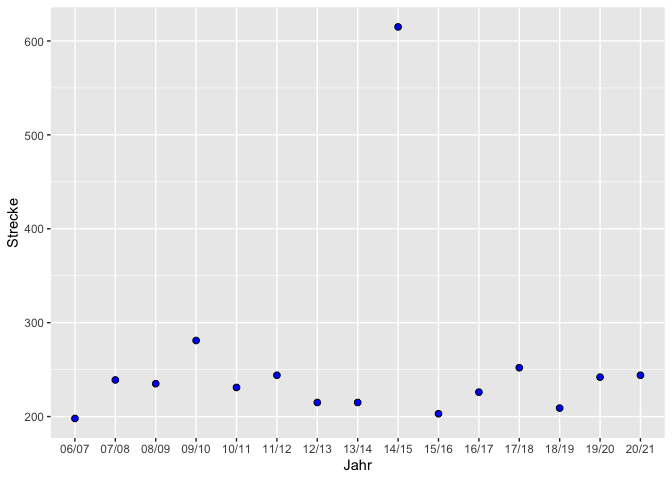
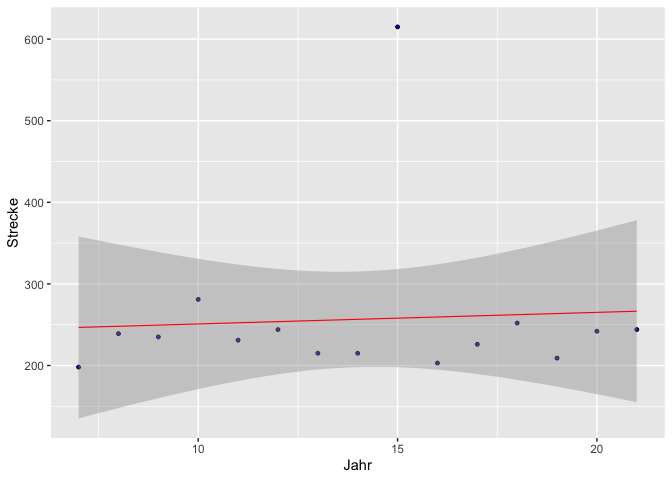
Aenderung

diff --git a/muffel.md b/muffel.md
@@ -1,4 +1,4 @@
-Jagdstrecke 2012 bis 2021
+Jagdstrecke 2007 bis 2021
 ================
 
 ## Muffelwild [^1]
@@ -22,9 +22,9 @@ Jagdstrecke 2012 bis 2021
     ## 14    8        1031
     ## 15    7         743
 
-    ## `geom_smooth()` using method = 'loess' and formula = 'y ~ x'
-
 ![](muffel_files/figure-gfm/unnamed-chunk-1-1.png)<!-- -->
+
+![](muffel_files/figure-gfm/unnamed-chunk-2-1.png)<!-- -->
 
 ![](muffel_files/figure-gfm/pressure-1.png)<!-- -->
 
@@ -47,13 +47,9 @@ Jagdstrecke 2012 bis 2021
     ## 14    8     239
     ## 15    7     198
 
-    ## `geom_smooth()` using method = 'loess' and formula = 'y ~ x'
-
-![](muffel_files/figure-gfm/unnamed-chunk-2-1.png)<!-- -->
-
-    ## `geom_smooth()` using method = 'loess' and formula = 'y ~ x'
-
 ![](muffel_files/figure-gfm/unnamed-chunk-3-1.png)<!-- -->
+
+![](muffel_files/figure-gfm/unnamed-chunk-4-1.png)<!-- -->
 
 ![](muffel_files/figure-gfm/pressure1-1.png)<!-- -->
 
